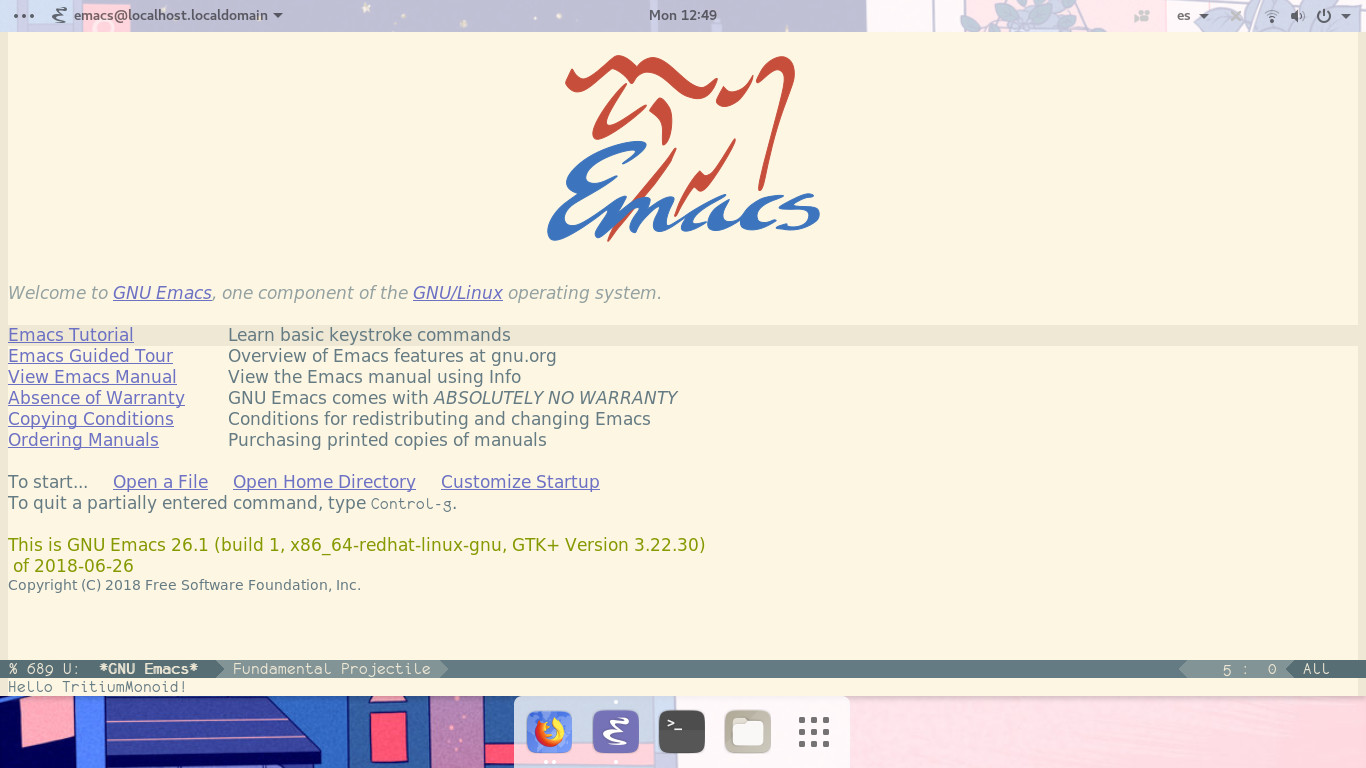
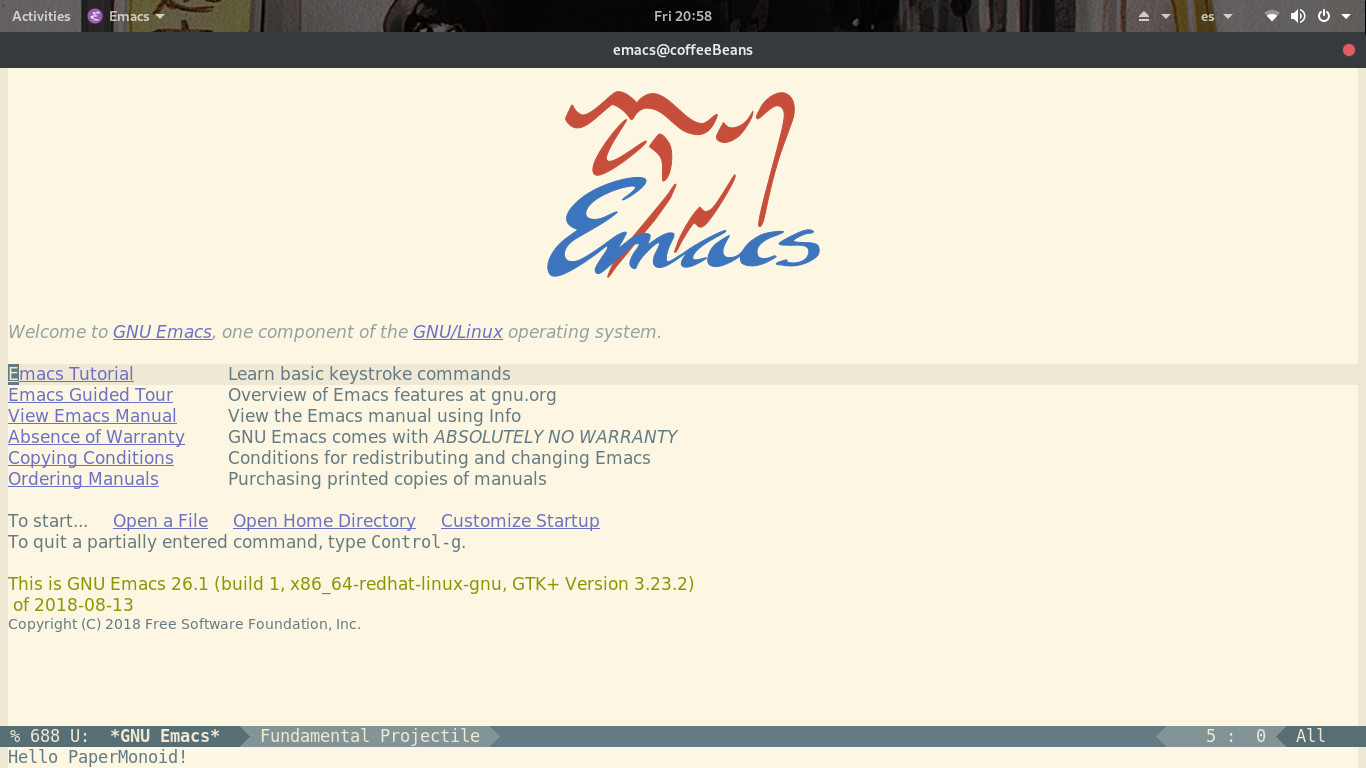
refactor: change font

Changed region(s): [[0.0, 0.0, 1.0, 1.0]]

diff --git a/README.md b/README.md
@@ -8,4 +8,4 @@
 
 > Theme: [solarized-light](https://github.com/bbatsov/solarized-emacs)
 
-> Font: [monofur](https://www.dafont.com/monofur.font)
+> Font: DejaVu Sans Mono Book
